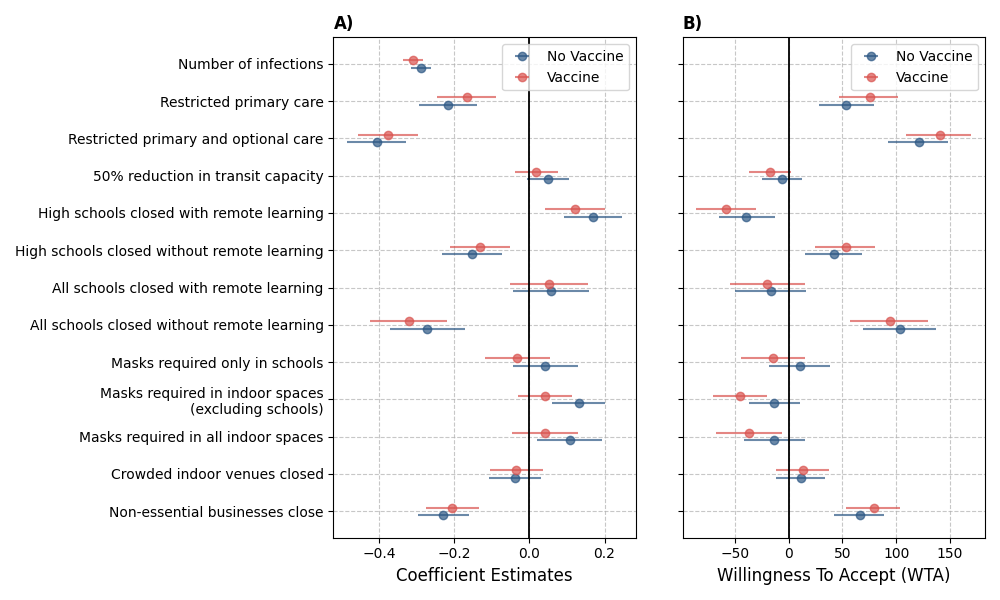
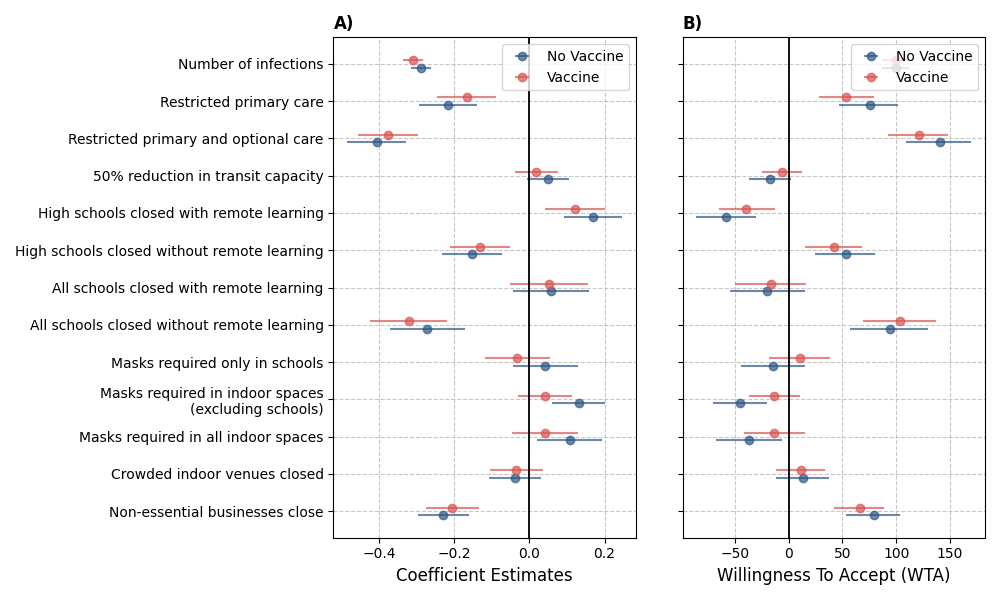
working on multiple subgroup figure

diff --git a/support/func_support.py b/support/func_support.py
@@ -34,58 +34,70 @@ def get_wtas_and_errs(table, attribute_keys):
     return wtas, errs
 
 
-def get_coefs_and_errs_by_vaccine(table_no_vaccine, table_vaccine, attribute_keys):
-    """ Get coefficient estimates and errors for no vaccine and with vaccine scenarios """
-
-    # get coefficient estimates and errors for no vaccine scenario
-    estimates_no_vaccine, errs_no_vaccine = get_coefs_and_errs(
-        table=table_no_vaccine, attribute_keys= attribute_keys)
-
-    # get coefficient estimates and errors for with vaccine scenario
-    estimates_vaccine, errs_vaccine = get_coefs_and_errs(
-        table=table_vaccine, attribute_keys=attribute_keys)
-
-    return estimates_no_vaccine, errs_no_vaccine, estimates_vaccine, errs_vaccine
-
-
 def get_dict_estimates_and_errs_by_subgroups(
         table_no_vaccine, table_vaccine, attribute_keys, estimate_type, subgroups):
     """ Get coefficient estimates and errors for subgroups """
 
     # dictionaries
     estimates_no_vaccine, errs_no_vaccine, estimates_vaccine, errs_vaccine = {}, {}, {}, {}
+    table_no_vaccine_filtered = None
+    table_vaccine_filtered = None
 
     for group in subgroups:
 
-        table_no_vaccine_filtered = table_no_vaccine[table_no_vaccine.index.str.contains(group)]
-        table_vaccine_filtered = table_vaccine[table_vaccine.index.str.contains(group)]
+        if table_no_vaccine is not None:
+            table_no_vaccine_filtered = table_no_vaccine[table_no_vaccine.index.str.contains(group)]
+        if table_vaccine is not None:
+            table_vaccine_filtered = table_vaccine[table_vaccine.index.str.contains(group)]
 
         # update attribute keys by adding the group name
         group_attribute_keys = [key + '_' + group for key in attribute_keys]
 
         # estimates and err
         if estimate_type == 'coeff':
-            estimates_no_vaccine[group], errs_no_vaccine[group] = get_coefs_and_errs(
-                table=table_no_vaccine_filtered, attribute_keys=group_attribute_keys)
-            estimates_vaccine[group], errs_vaccine[group] = get_coefs_and_errs(
-                table=table_vaccine_filtered, attribute_keys=group_attribute_keys)
+            if table_no_vaccine is not None:
+                estimates_no_vaccine[group], errs_no_vaccine[group] = get_coefs_and_errs(
+                    table=table_no_vaccine_filtered, attribute_keys=group_attribute_keys)
+            if table_vaccine is not None:
+                estimates_vaccine[group], errs_vaccine[group] = get_coefs_and_errs(
+                    table=table_vaccine_filtered, attribute_keys=group_attribute_keys)
         elif estimate_type == 'wta':
-            estimates_no_vaccine[group], errs_no_vaccine[group]= get_wtas_and_errs(
-                table=table_no_vaccine_filtered, attribute_keys=group_attribute_keys)
-            estimates_vaccine[group], errs_vaccine[group] = get_wtas_and_errs(
-                table=table_vaccine_filtered, attribute_keys=group_attribute_keys)
+            if table_no_vaccine is not None:
+                estimates_no_vaccine[group], errs_no_vaccine[group]= get_wtas_and_errs(
+                    table=table_no_vaccine_filtered, attribute_keys=group_attribute_keys)
+            if table_vaccine is not None:
+                estimates_vaccine[group], errs_vaccine[group] = get_wtas_and_errs(
+                    table=table_vaccine_filtered, attribute_keys=group_attribute_keys)
         else:
             raise ValueError('Invalid estimate type.')
 
     return estimates_no_vaccine, errs_no_vaccine, estimates_vaccine, errs_vaccine
 
 
-def get_wtas_and_errs_by_vaccine(table_no_vaccine, table_vaccine, attribute_keys):
-    """ Get WTA estimates and errors for no vaccine and with vaccine scenarios """
 
-    estimates_no_vaccine, errs_no_vaccine = get_wtas_and_errs(
-        table=table_no_vaccine, attribute_keys=attribute_keys)
-    estimates_vaccine, errs_wtp_vaccine = get_wtas_and_errs(
-        table=table_vaccine, attribute_keys=attribute_keys)
+def get_estims_errs_by_subgroup(survey_scenario, group_name, estimate_type):
 
-    return estimates_no_vaccine, errs_no_vaccine, estimates_vaccine, errs_wtp_vaccine
+
+    # read results for vaccine and no vaccine scenarios
+    results_no_vaccine = get_table(
+        'estimates/results_{}_no_vaccine.csv'.format(group_name), if_drop_infection_rate=False)
+    results_vaccine =  get_table(
+        'estimates/results_{}_vaccine.csv'.format(group_name), if_drop_infection_rate=False)
+
+    if estimate_type == 'coeff':
+        # read coefficient estimates along with confidence intervals
+        estims_no_vaccine, errs_no_vaccine, estims_vaccine, errs_coefs_vaccine = get_dict_estimates_and_errs_by_subgroups(
+            table_no_vaccine=results_no_vaccine,
+            table_vaccine=results_vaccine,
+            attribute_keys=dict_coeff_labels.keys(),
+            subgroups=group_categories, estimate_type='coeff')
+
+    elif estimate_type == 'wta':
+        # read wtp estimates along with confidence intervals
+        estims_no_vaccine, errs_no_vaccine, estims_vaccine, errs_coefs_vaccine = get_dict_estimates_and_errs_by_subgroups(
+            table_no_vaccine=results_no_vaccine,
+            table_vaccine=results_vaccine,
+            attribute_keys=dict_wtp_labels.keys(),
+            subgroups=group_categories, estimate_type='wta')
+    else:
+        raise ValueError('Invalid estimate type')

diff --git a/main_fig.py b/main_fig.py
@@ -2,7 +2,7 @@ import matplotlib.pyplot as plt
 
 from defenisions import *
 from support.fig_support import add_to_2_axes
-from support.func_support import get_coefs_and_errs_by_vaccine, get_wtas_and_errs_by_vaccine, get_table
+from support.func_support import get_wtas_and_errs, get_table, get_coefs_and_errs
 
 FIG_SIZE = (10, 6)
 
@@ -16,16 +16,20 @@ def do_main_figure():
         if_drop_infection_rate=False)
 
     # read coefficient estimates along with confidence intervals
-    coefs_no_vaccine, errs_no_vaccine, coefs_vaccine, errs_coefs_vaccine = get_coefs_and_errs_by_vaccine(
-        table_no_vaccine=results_no_vaccine,
-        table_vaccine=results_vaccine,
+    coefs_no_vaccine, errs_no_vaccine = get_coefs_and_errs(
+        table=results_no_vaccine,
+        attribute_keys=dict_coeff_labels.keys())
+    coefs_vaccine, errs_vaccine = get_coefs_and_errs(
+        table=results_vaccine,
         attribute_keys=dict_coeff_labels.keys())
 
     # read wta estimates along with confidence intervals
-    wtp_vaccine, wtp_errs_vaccine, wtp_no_vaccine, wtp_errs_no_vaccine = get_wtas_and_errs_by_vaccine(
-        table_no_vaccine=results_no_vaccine,
-        table_vaccine=results_vaccine,
-        attribute_keys=dict_wtp_labels.keys())
+    wtp_vaccine, wtp_errs_vaccine = get_wtas_and_errs(
+        table=results_vaccine,
+        attribute_keys=dict_coeff_labels.keys())
+    wtp_no_vaccine, wtp_errs_no_vaccine = get_wtas_and_errs(
+        table=results_no_vaccine,
+        attribute_keys=dict_coeff_labels.keys())
 
     # plot
     fig, ax = plt.subplots(1, 2, figsize=FIG_SIZE, sharey=True)
@@ -36,7 +40,7 @@ def do_main_figure():
     add_to_2_axes(
         axes=ax,
         lists_of_estimates_left=[coefs_no_vaccine, coefs_vaccine],
-        lists_of_errs_left=[errs_no_vaccine, errs_coefs_vaccine],
+        lists_of_errs_left=[errs_no_vaccine, errs_vaccine],
         lists_of_estimates_right=[wtp_no_vaccine, wtp_vaccine],
         lists_of_errs_right=[wtp_errs_no_vaccine, wtp_errs_vaccine],
         x_axis_label_left='Coefficient Estimates',

diff --git a/row_of_subgroups.py b/row_of_subgroups.py
@@ -1,0 +1,30 @@
+from support.fig_support import do_row_of_subgroups
+
+FIG_SIZE = (10, 6)
+
+subgroup_info = {
+    'gender':
+        {
+            'title': 'Gender',
+            'group_categories': ['Male', 'Female'],
+            'group_colors': ['#2C5784', '#D9534F'],
+            'dist_between_bars': 0.2
+        },
+    'vaccine status':
+        {
+            'title': 'Vaccine Status',
+            'group_categories': ['Vaccine'],
+            'group_colors': ['#2C5784', '#D9534F'],
+            'dist_between_bars': 0.2
+        }
+}
+
+
+if __name__ == '__main__':
+
+    for estimate_type in ['coeff', 'wta']:
+        do_row_of_subgroups(
+            estimate_type=estimate_type,
+            survey_scenario='No Vaccine',
+            subgroup_info = subgroup_info,
+            fig_size=FIG_SIZE)

diff --git a/support/fig_support.py b/support/fig_support.py
@@ -142,3 +142,23 @@ def do_fig_by_group(
 
     plt.tight_layout(w_pad=3)
     plt.savefig('figs/{}_by_{}.png'.format(estimate_type, group_name))
+
+#
+# def do_row_of_subgroups(estimate_type, survey_scenario, subgroup_info, fig_size):
+#
+#     n_of_panels = len(subgroup_info)
+#     fig, ax = plt.subplots(1, n_of_panels, figsize=fig_size, sharey=True)
+#
+#     # populate panels
+#     for i in range(n_of_panels):
+#         ax[i].set_title('{})'.format(string.ascii_uppercase[i]), loc='left', weight='bold')
+#
+#
+#     for subgroup in subgroup_info:
+#
+#         add_to_ax(
+#             ax=ax[i],
+#             lists_of_estimates=subgroup_info[i],
+#             lists_of_errs=subgroup_info[i],
+#             x_axis_label='Coefficient Estimates',
+#             colors=)
